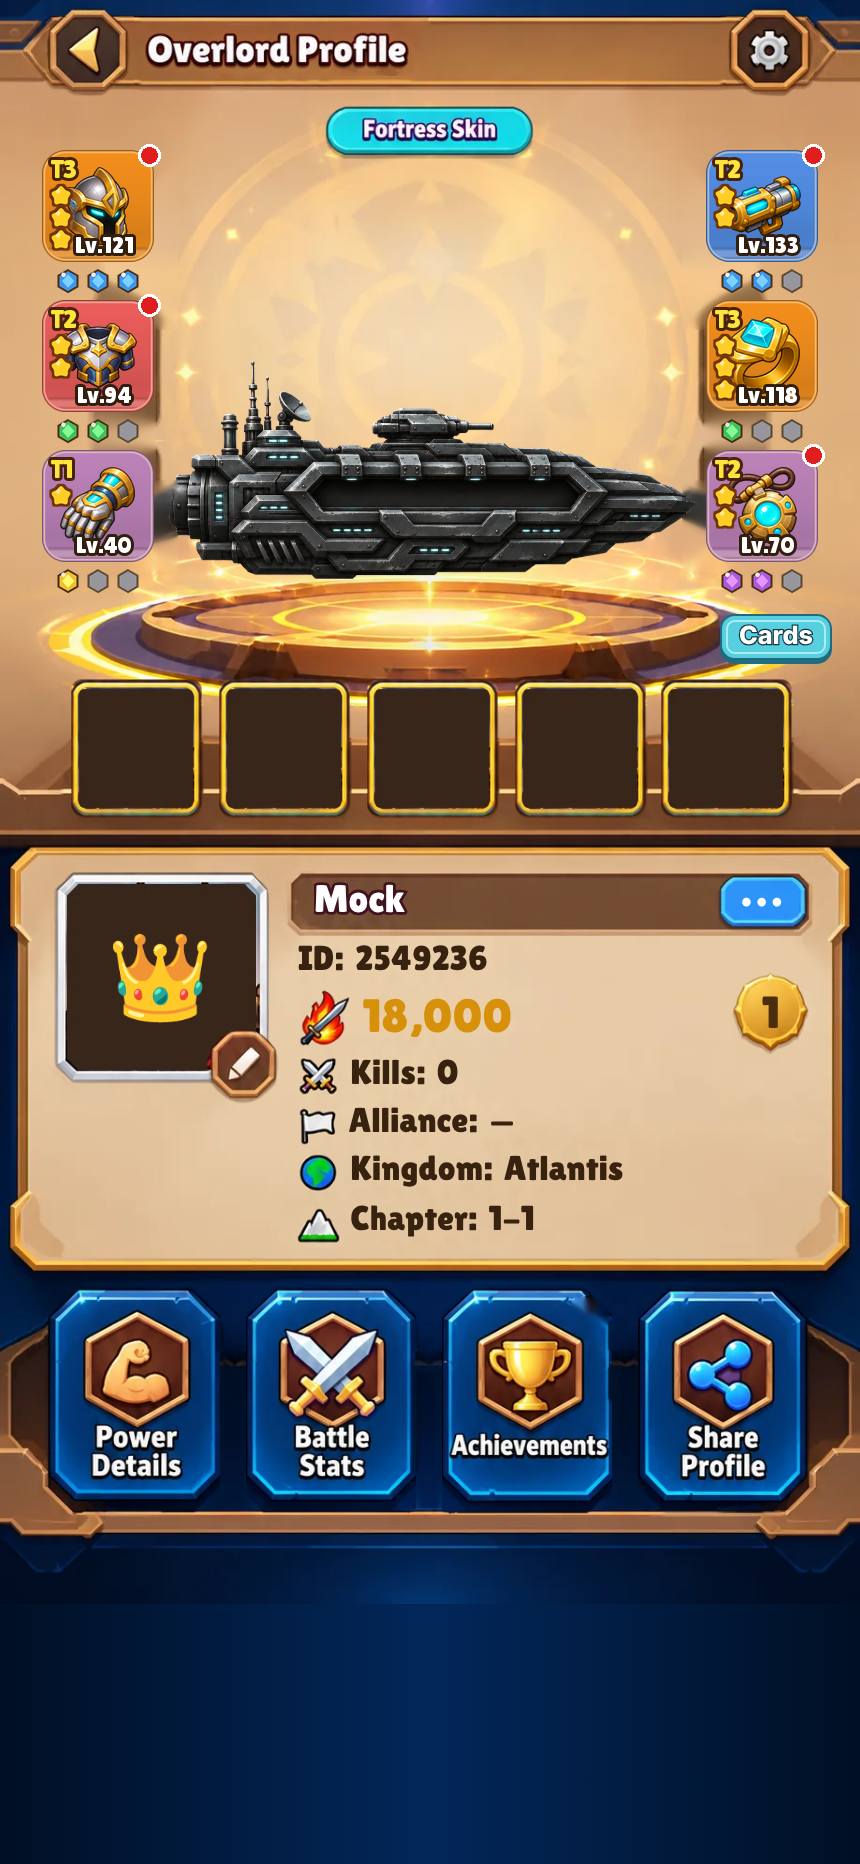
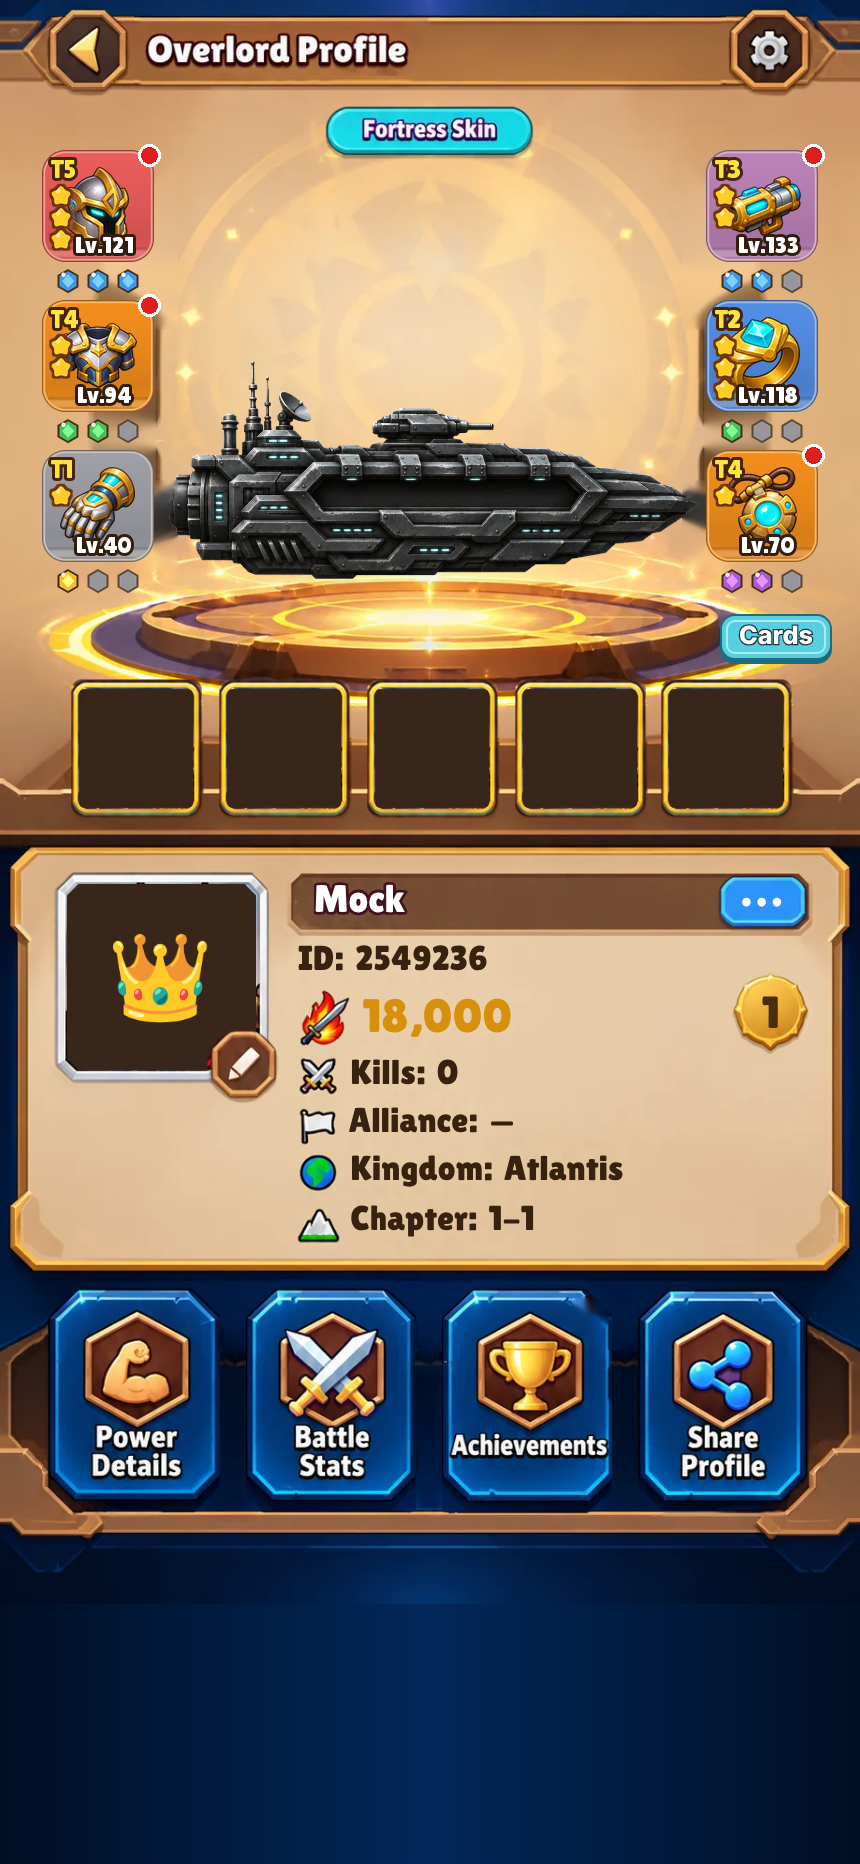
Governor gear mockup v3: 5 tier colours (grey/blue/purple/orange/red)
Claude-Session: https://claude.ai/code/session_01JamU3DGA95eo1q8PxeEFBV

Changed region(s): [[0.8163, 0.0622, 0.9674, 0.3112], [0.0302, 0.0622, 0.1814, 0.3112]]

diff --git a/dev/ui/gear_mock.py b/dev/ui/gear_mock.py
@@ -18,9 +18,9 @@ clean = cv2.inpaint(src, mask, 9, cv2.INPAINT_TELEA)
 base = Image.fromarray(cv2.cvtColor(clean, cv2.COLOR_BGR2RGB)).convert('RGBA')
 L = lambda n: ImageFont.truetype('fonts/LilitaOne-Regular.woff', n)
 S = 112; xs = [42, W - 42 - S]; ys = [150, 300, 450]
-GEAR = [  # (icon, tier, P, stars, level, upgradable, gems)  gems: colour or None = empty socket
-    ('helm', 'gold', 'T3', 3, 121, True, ['blue'] * 3), ('armour', 'red', 'T2', 2, 94, True, ['green', 'green', None]), ('gauntlet', 'purple', 'T1', 1, 40, False, ['gold', None, None]),
-    ('gun', 'blue', 'T2', 2, 133, True, ['blue', 'blue', None]), ('ring', 'gold', 'T3', 3, 118, False, ['green', None, None]), ('amulet', 'purple', 'T2', 2, 70, True, ['purple', 'purple', None])]
+GEAR = [  # (icon, tier colour, tier label, stars, level, upgradable, gems)  Harley 20 Nov: tiers grey -> blue -> purple -> orange -> red; stars = progress inside a tier
+    ('helm', 'red', 'T5', 3, 121, True, ['blue'] * 3), ('armour', 'gold', 'T4', 2, 94, True, ['green', 'green', None]), ('gauntlet', 'grey', 'T1', 1, 40, False, ['gold', None, None]),
+    ('gun', 'purple', 'T3', 2, 133, True, ['blue', 'blue', None]), ('ring', 'blue', 'T2', 3, 118, False, ['green', None, None]), ('amulet', 'gold', 'T4', 1, 70, True, ['purple', 'purple', None])]
 GEM = {'blue': (64, 150, 235), 'green': (70, 190, 90), 'gold': (240, 190, 50), 'purple': (170, 90, 220)}
 def cute_star(img, cx, cy, r, fill=(255, 206, 38), outline=(110, 52, 8)):
     from PIL import ImageFilter
